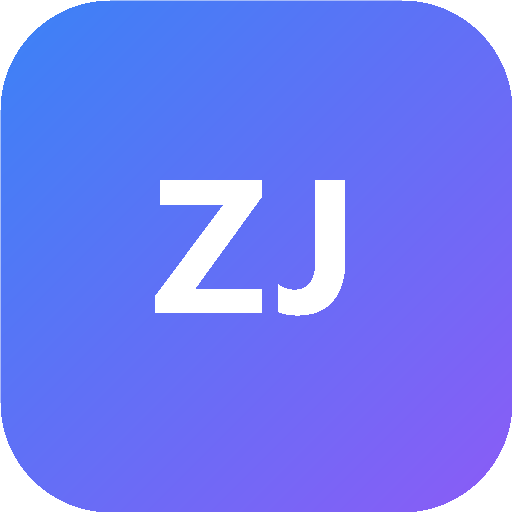
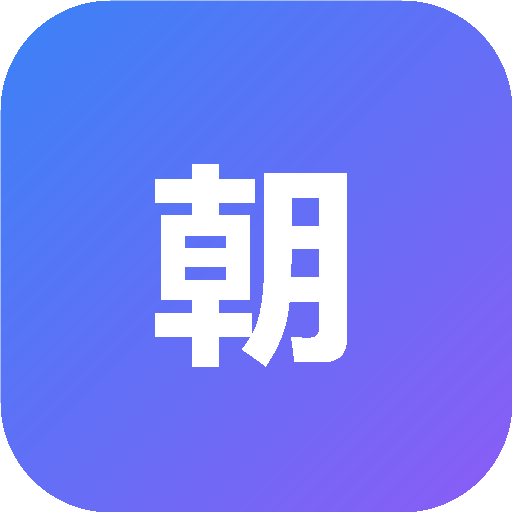
首页改版：昵称改为朝槿，自我介绍按 README 更新，头像与站点标题同步

Changed region(s): [[0.2812, 0.3125, 0.6875, 0.7188]]

diff --git a/docs/index.md b/docs/index.md
@@ -3,11 +3,11 @@ layout: home
 
 hero:
   name: "你好，我是"
-  text: "zhaojin596"
-  tagline: "研究生 / 强化学习方向 · 记录课程学习与项目实践"
+  text: "朝槿"
+  tagline: "大四自动化学生 · 备战考研 · 记录课程学习与项目实践"
   image:
     src: /avatar.png
-    alt: 头像
+    alt: 朝槿
   actions:
     - theme: brand
       text: 我的课程资料
@@ -19,22 +19,22 @@ hero:
 features:
   - icon: 📚
     title: 课程资料
-    details: 课件、笔记与阅读报告，按学期和课程整理，托管在语雀知识库中，便于随时查阅与分享。
+    details: 按学期整理的课程学习资料与论文阅读记录，持续更新中。
     link: /courses
   - icon: 🛠
     title: 项目实践
-    details: 从课程项目到科研探索，每个项目都有背景、思路与成果，附代码仓库链接。
+    details: 大学前三年积累的课程项目与科研训练，按技术方向分类，附报告与代码链接。
     link: /projects
   - icon: ✉
     title: 联系我
-    details: 欢迎交流课程学习、论文阅读与研究合作，也欢迎对我的项目提出建议。
+    details: 欢迎交流课程学习、项目实践与考研心得。GitHub：zhaojin596 · QQ：1754691501
 ---
 
 ## 关于我
 
-我是一名在读研究生，主要关注**强化学习**方向。目前在做两件事：一是把课程资料与经典论文的阅读报告系统整理出来，二是把课堂上学到的想法落地成小项目。欢迎交流课程学习、论文阅读与研究合作，也欢迎对我的项目提出建议。
+我是一名大四的**自动化**专业学生，正在备战考研。这里整理了我大学前三年的一些课程项目，方向涵盖机器学习、机器人、嵌入式、大模型应用等。希望借这个站点记录学习过程，也让自己在实际的代码与项目技能上不断精进。
 
 ## 最近更新
 
-- **2026-08**：首页上线，课程资料与项目板块陆续整理中。
-- **2026-08**：完成《强化学习论文阅读报告》初稿。
+- **2026-08**：个人主页改版，昵称「朝槿」，项目按技术方向分类整理。
+- **2026-08**：课程项目与 SRTP 报告已上线，可在线查看 / 下载。

diff --git a/README.md b/README.md
@@ -1,4 +1,4 @@
-# zhaojin596 的个人主页
+# 朝槿的个人主页
 
 你好，欢迎来到我的个人主页！
 
@@ -32,4 +32,3 @@
 ## 联系我
 - GitHub：<https://github.com/zhaojin596>
 - QQ：1754691501
-
